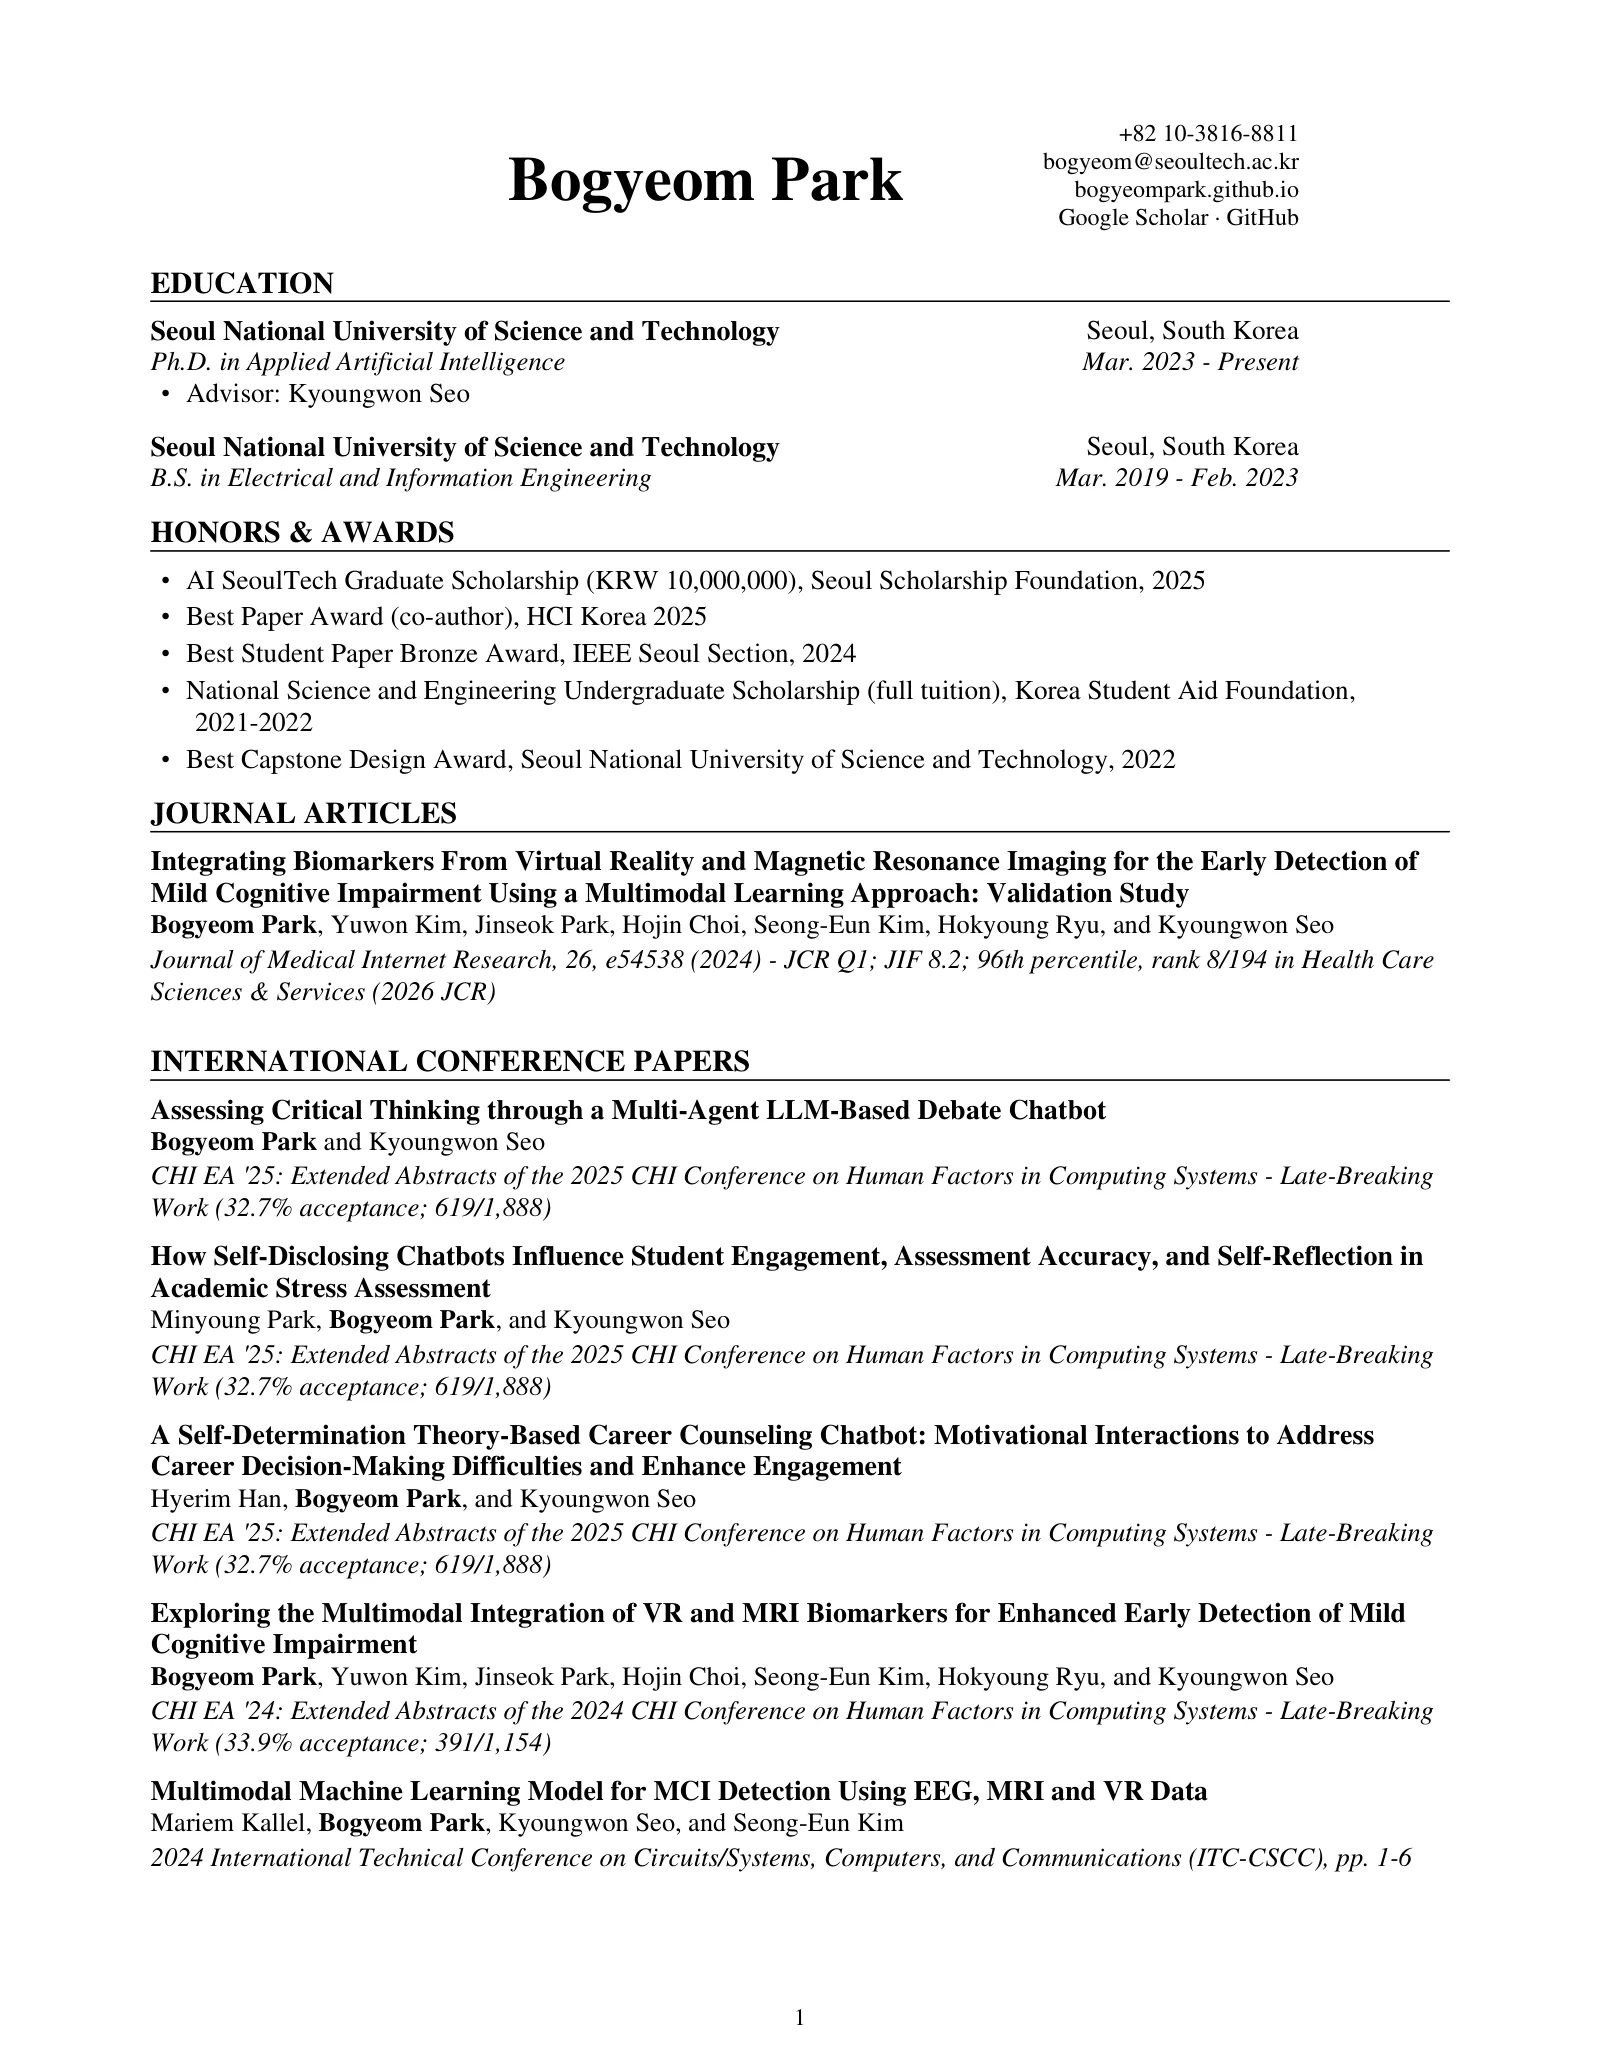
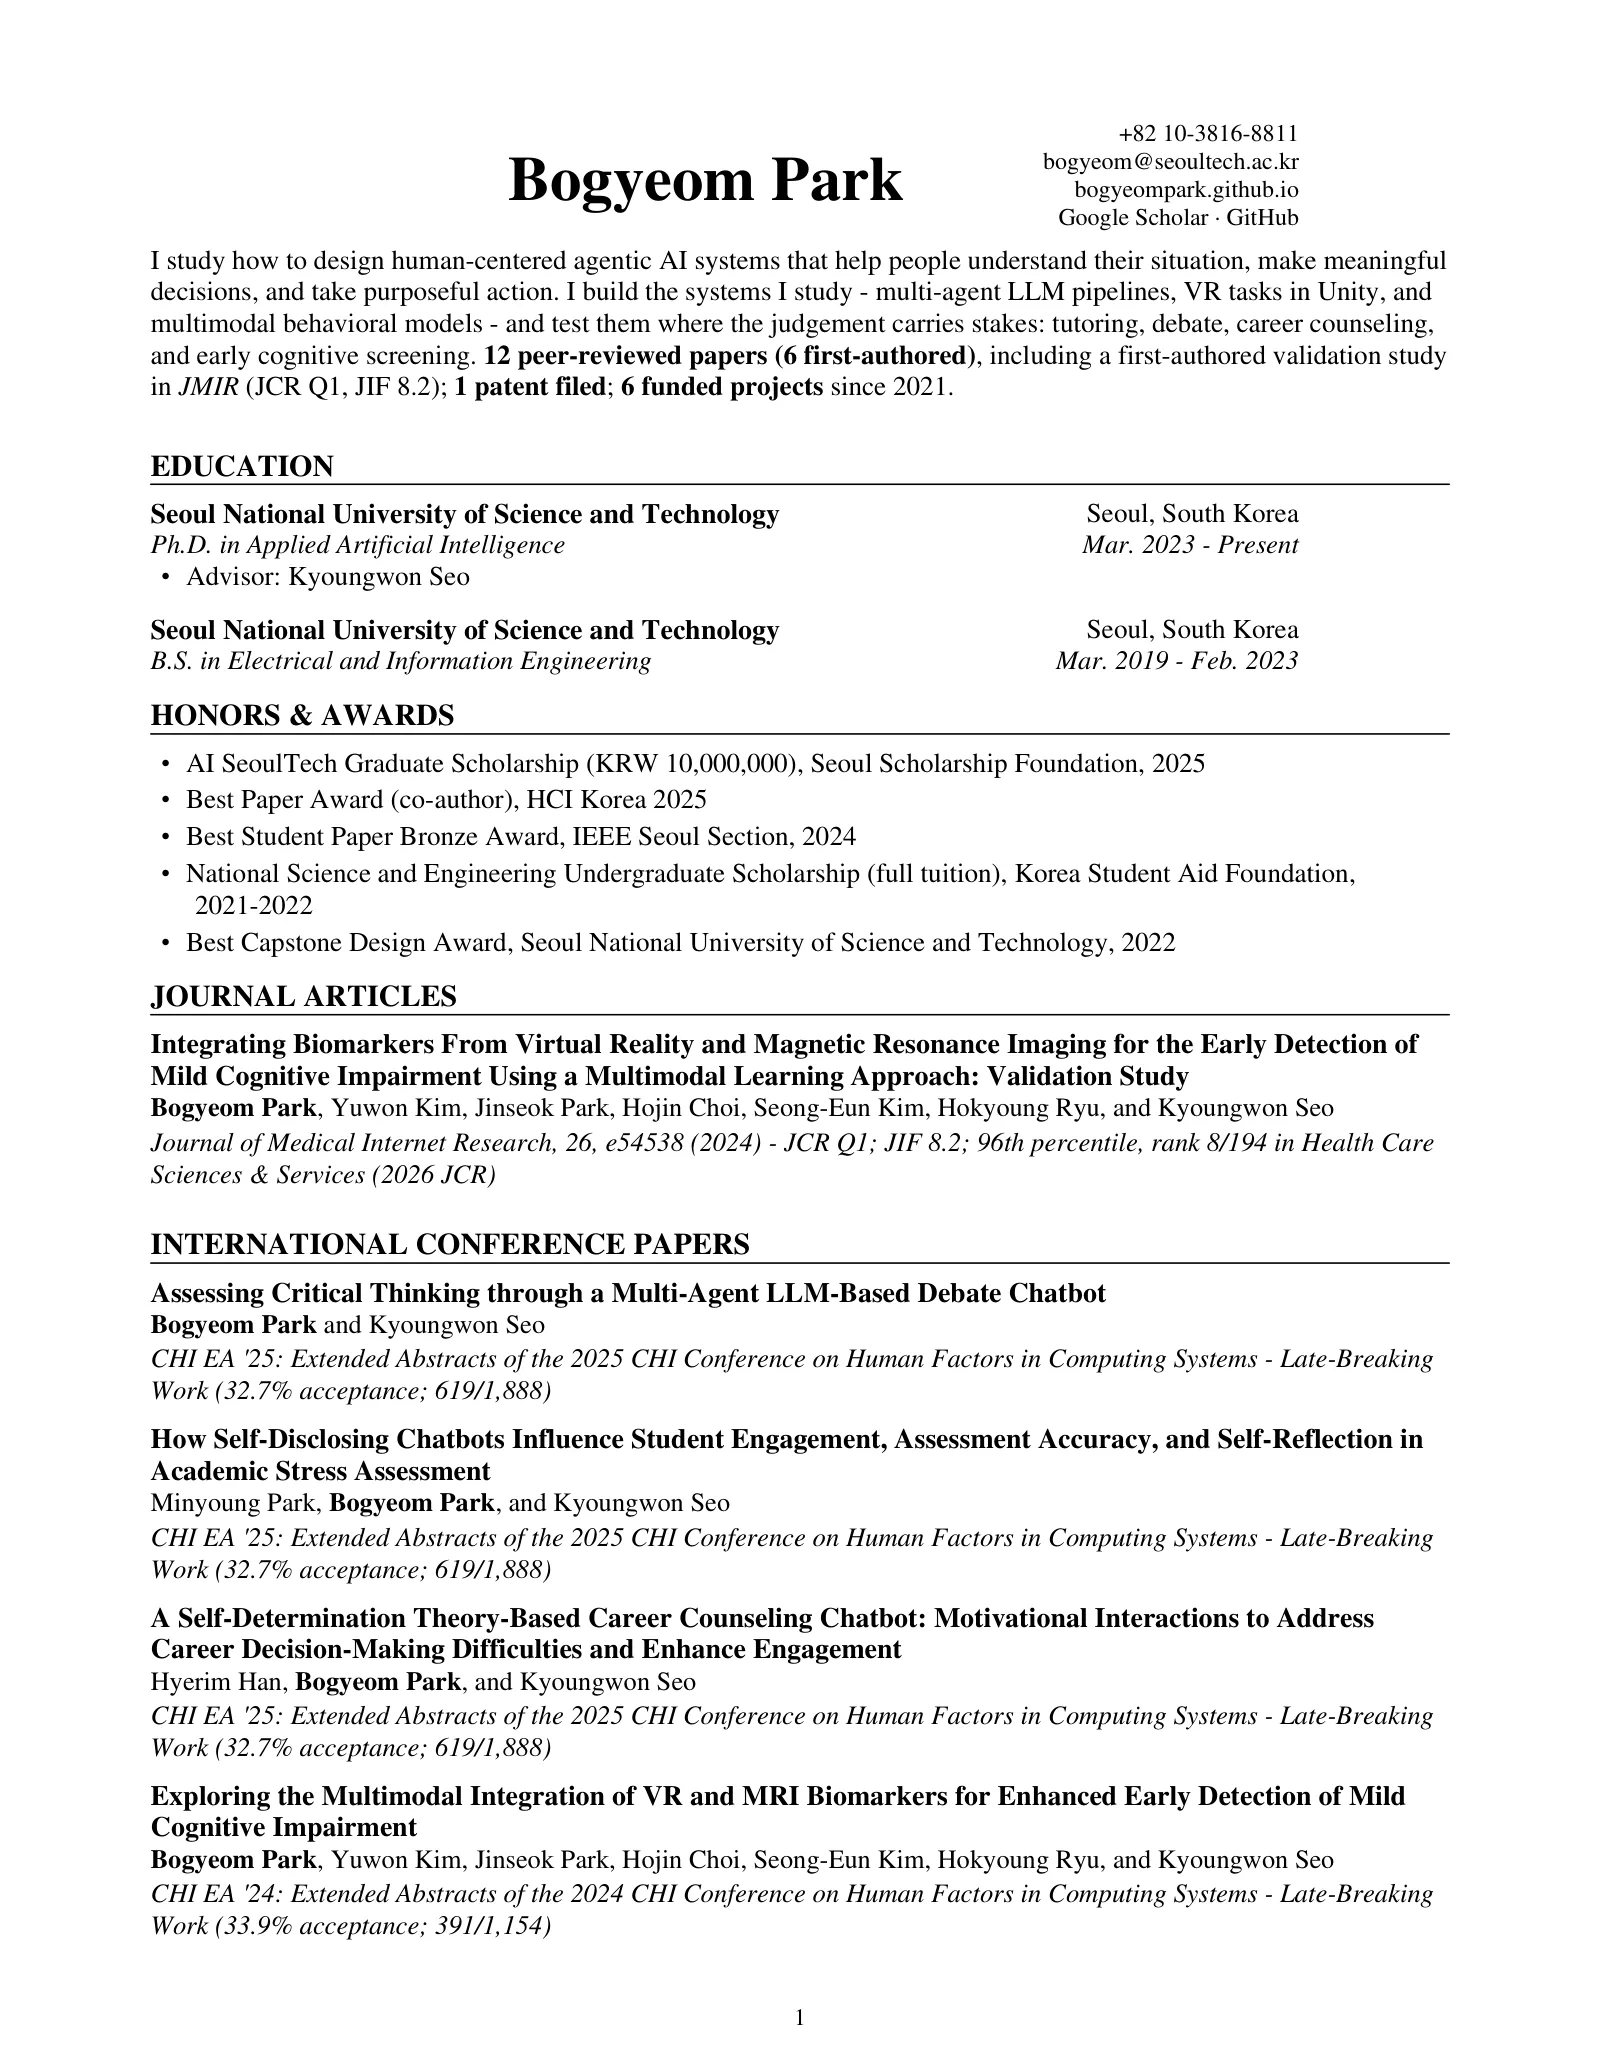
Make the CV say what the site says
The review asked for the CV and the homepage to carry the same words, and they
had drifted far apart.

The CV opens with a summary now: the identity sentence the homepage opens with,
the same keywords - multi-agent LLM pipelines, VR tasks in Unity, multimodal
behavioral models - and three counts a reader can check against the sections
underneath. Research Interests was dropped from this CV years ago for good
reason, and this is not that; every clause in it is verifiable from the page it
sits on.

Research Experience was missing the thing the whole section exists for. No
project carried its award. The tutoring project was titled for probability and
statistics when the contract and the tutor are about mathematics. The biomarker
laboratory was dated from 2022 when it ran from June 2021, and both ministry
grants were attributed to the National Research Foundation rather than the
Ministry of Science and ICT. The KERIS instructional-design project was absent
altogether. And four of the six had no outcome at all: no 94.4%, no 0.78, no RR
2025-3, no pilot, no patent.

All six now carry funder, award, dates and what came out, in the order and the
wording the site uses. The award is the project's rather than mine, so a note
under the affiliation says so once instead of a disclaimer repeating six times.

Skills gain the methods the site claims and the CV did not name: focus groups,
Delphi and expert validation, school and field pilots, clinical data collection
[…]

Changed region(s): [[0.0938, 0.1236, 0.9062, 0.958]]

diff --git a/scripts/cv_data.py b/scripts/cv_data.py
@@ -31,9 +31,21 @@ CONTACT = {
     "github": "https://github.com/BogyeomPark",
 }
 
-# Research Interests was dropped from the CV. The publication list and the project
-# bullets carry the same ground, and a standalone paragraph of interests is the one
-# part of a CV nobody can check.
+# Research Interests was dropped from the CV: a standalone paragraph of interests
+# is the one part of a CV nobody can check. This is not that. It is the sentence
+# the homepage opens with, the keywords that page carries, and three counts that
+# can each be verified from the sections below - which is what the review asked
+# for when it said the CV and the site should say the same thing.
+SUMMARY = (
+    "I study how to design human-centered agentic AI systems that help people understand "
+    "their situation, make meaningful decisions, and take purposeful action. I build the "
+    "systems I study - multi-agent LLM pipelines, VR tasks in Unity, and multimodal "
+    "behavioral models - and test them where the judgement carries stakes: tutoring, "
+    "debate, career counseling, and early cognitive screening. "
+    "<b>12 peer-reviewed papers (6 first-authored)</b>, including a first-authored "
+    "validation study in <i>JMIR</i> (JCR Q1, JIF 8.2); <b>1 patent filed</b>; "
+    "<b>6 funded projects</b> since 2021."
+)
 
 EDUCATION = [
     {
@@ -191,6 +203,10 @@ DOMESTIC = [
 # twice while forcing every grant that crosses Feb. 2023 into one side or the other.
 # The status change is two lines here; Education already dates the degrees.
 # Projects run in one reverse-chronological list underneath, by start date.
+# Every project carries its funder and the size of the award, because that is what
+# a reader is weighing and leaving it out makes the entry unreadable. The award is
+# the project’s, not mine - the note under the affiliation says so once, rather
+# than repeating a disclaimer six times.
 RESEARCH_EXPERIENCE = [
     {
         "org": "Human-centered Artificial Intelligence (HAI) Lab, SeoulTech",
@@ -199,72 +215,85 @@ RESEARCH_EXPERIENCE = [
             ("Graduate Researcher (Advisor: Kyoungwon Seo)", "Mar. 2023 - Present"),
             ("Undergraduate Researcher", "Mar. 2021 - Feb. 2023"),
         ],
+        "note": (
+            "Amounts are each project’s total award, held by my advisor as principal "
+            "investigator; the role given is the one I held on the research team."
+        ),
         "projects": [
             {
-                "title": "ICAP-Based AI Tutoring System for Probability and Statistics Learning",
-                "role": "Lead Graduate Researcher | Tutorus Labs",
+                "title": "Usability Evaluation of a Compound AI Tutoring System",
+                "role": "Lead Graduate Researcher | Tutorus Labs | KRW 30M",
                 "dates": "Mar. 2026 - Aug. 2026",
                 "bullets": [
-                    "Led the design and evaluation of an ICAP-based AI tutor that uses staged elicitation "
-                    "to promote active, constructive, and interactive engagement rather than answer delivery",
-                    "Developed an utterance-level coding and analytics workflow linking dialogue evidence "
-                    "with tutor correctness, usage patterns, and learning outcomes",
-                    "Built an interactive research dashboard for reviewing engagement labels and "
-                    "comparing AI-tutored learning processes",
+                    "Designed the evaluation framework and wrote the utterance-level ICAP coding "
+                    "manual, then built the classifier that applies it",
+                    "Ran the sessions with school and first-year university students, and built the "
+                    "analytics dashboard linking engagement to learning outcome",
+                    "Produced a coded dialogue corpus and the project’s final report; journal "
+                    "manuscript in preparation",
                 ],
             },
             {
-                "title": "Agentic AI for Personalized Career, Academic, and Counseling Support",
-                "role": "Lead Graduate Researcher | Korea Education & Research Information Service",
+                "title": "Agentic AI for Personalized Career, Admission, and Counseling Support",
+                "role": "Lead Graduate Researcher | Korea Education & Research Information Service | KRW 50M",
                 "dates": "Jun. 2025 - Dec. 2025",
                 "bullets": [
-                    "Led a study of how agentic AI could support personalized educational pathways, "
-                    "counseling, and decision-making",
+                    "Ran the teacher focus groups, designed the multi-agent workflow, and ran two "
+                    "rounds of expert validation and a Delphi study",
+                    "Piloted the system with 30 teachers and 150 students; experts rated the design "
+                    "direction 4.37/5 and automatic record ingestion 5.00/5",
+                    "Produced KERIS Research Report RR 2025-3, an invention disclosure, and a "
+                    "first-authored HCI Korea 2026 paper",
                 ],
             },
             {
-                "title": "AI Copilot Technologies for Adaptive, Teacher-Augmented Learning",
+                "title": "AI Copilot for Teacher-Augmented, Competence-Adaptive Learning",
                 "role": (
-                    "Lead Graduate Researcher | Institute for Information & Communications Technology "
-                    "Planning & Evaluation"
+                    "Lead Graduate Researcher | Institute for Information & Communications "
+                    "Technology Planning & Evaluation | KRW 1B"
                 ),
                 "dates": "Jul. 2023 - Dec. 2025",
-                # The debate chatbot was first-authored and built here; the SDT career
-                # chatbot was co-developed. The self-disclosure study is a co-authored
-                # paper rather than a system built here, so it stays in Publications.
                 "bullets": [
                     "Designed and evaluated a multi-agent LLM debate chatbot that draws out a "
-                    "student’s argument and assesses critical thinking from the exchange",
-                    "Co-developed a self-determination-theory career counseling chatbot that "
-                    "addresses career decision-making difficulties through motivational dialogue",
+                    "student’s argument and scores critical thinking from the exchange",
+                    "Its evaluator agents matched human raters at an intraclass correlation of 0.78, "
+                    "agreeing within one point 97.37% of the time (CHI EA 2025, first-authored)",
+                    "Co-developed a self-determination-theory career counseling chatbot",
+                ],
+            },
+            {
+                "title": "AI Agents for Improving Teachers’ Instructional Design",
+                "role": "Lead Graduate Researcher | Korea Education & Research Information Service",
+                "dates": "2025",
+                "bullets": [
+                    "Authored the final report, designed the system prompts, and drafted the interface",
+                    "Produced a practitioner guide to collaborative instructional-design agents",
                 ],
             },
             {
                 "title": "VR-EP-EEG-MRI Digital Biomarker Basic Research Laboratory",
-                "role": "Lead Graduate Researcher | National Research Foundation of Korea",
-                "dates": "Mar. 2022 - Feb. 2024",
+                "role": "Lead Graduate Researcher | Ministry of Science and ICT | KRW 1.2B",
+                "dates": "Jun. 2021 - Feb. 2024",
                 "bullets": [
-                    "Ran the VR data collection on site at Hanyang University Guri Hospital with patients "
-                    "with mild cognitive impairment and healthy controls",
-                    "Analyzed the resulting VEEM multimodal dataset - VR interaction, eye tracking, evoked "
-                    "potentials, EEG and MRI - including the VR-MRI-SNSB cohort of 54 participants",
+                    "Ran the VR data collection on site at Hanyang University Guri Hospital, with "
+                    "patients rather than a convenience sample",
+                    "Analyzed the VEEM multimodal dataset - hand movement, gaze, evoked potentials, "
+                    "EEG and MRI - including the VR-MRI-SNSB cohort of 54 participants",
+                    "The dataset behind four of my papers; a filed patent was submitted as a project "
+                    "deliverable",
                 ],
             },
             {
-                "title": (
-                    "Multimodal Deep Learning for Early Dementia Diagnosis from VR "
-                    "Daily-Living Data"
-                ),
-                "role": "Lead Graduate Researcher | National Research Foundation of Korea",
+                "title": "Digital Biomarkers for Early Dementia Diagnosis from VR Daily-Living Data",
+                "role": "Lead Graduate Researcher | Ministry of Science and ICT | KRW 550M",
                 "dates": "Mar. 2021 - Feb. 2024",
-                # First-authored the JMIR validation study this grant produced.
                 "bullets": [
-                    "Developed the virtual kiosk task in Unity - the six-step daily-living scenario the "
-                    "study's VR biomarkers are derived from",
-                    "Led the development and validation of a multimodal model combining VR behavioral "
-                    "biomarkers with MRI for early detection of mild cognitive impairment",
-                    "Derived hand-movement and gaze features from the kiosk task and tested them "
-                    "against MRI-derived measures in a clinical sample",
+                    "Built the virtual kiosk task in Unity - the six-step daily-living scenario the "
+                    "study’s VR biomarkers are derived from",
+                    "Led the multimodal model, deriving hand-movement and gaze features and reading "
+                    "them together with MRI-derived measures",
+                    "Separated 22 healthy controls from 32 patients at 94.4% accuracy, higher than VR "
+                    "or MRI alone (JMIR 2024, first-authored)",
                 ],
             },
         ],
@@ -296,10 +325,13 @@ TEACHING = [
     },
 ]
 
+# Worded to match the capabilities the site's project entries claim, so a reader
+# who has seen one recognises the other.
 SKILLS = [
-    "<b>Research Methods</b> - experimental design, usability evaluation, user research, prototyping, "
-    "multimodal learning analytics, statistical analysis, qualitative coding",
-    "<b>Machine Learning</b> - PyTorch, scikit-learn, Hugging Face, feature engineering, multimodal fusion",
+    "<b>Research Methods</b> - experimental design, usability evaluation, focus group interviews, "
+    "Delphi and expert validation, school and field pilots, clinical data collection with patients, "
+    "utterance-level dialogue coding, inter-rater agreement, statistical analysis",
+    "<b>Machine Learning</b> - PyTorch, scikit-learn, Hugging Face, feature engineering, multimodal fusion, transfer learning, classifier development",
     "<b>LLM Systems</b> - OpenAI and Anthropic APIs, multi-agent pipelines, RAG, prompt engineering and evaluation, LLM-as-a-judge",
     "<b>Programming and Tooling</b> - Python, C/C#, Docker, Streamlit, Git, SPSS",
     "<b>VR and Interactive Systems</b> - Unity, VR task development, interaction logging and eye tracking",

diff --git a/scripts/build_cv.py b/scripts/build_cv.py
@@ -256,6 +256,10 @@ def build():
     )
     story = [header, Spacer(1, 5)]
 
+    # The identity sentence and the counts, in the same words the homepage uses.
+    # The review asked for the two to match; this is the half that was missing.
+    story += [Paragraph(cv_data.SUMMARY, styles["Body"]), Spacer(1, 7)]
+
     story += section(cv_data.SECTION_TITLES["education"])
     for index, school in enumerate(cv_data.EDUCATION):
         if index:
@@ -284,6 +288,8 @@ def build():
         # One line per student status, under a single org heading.
         for role, dates in affiliation["roles"]:
             story.append(two_col(role, dates, right_style="CVItalicRight"))
+        if affiliation.get("note"):
+            story.append(Paragraph(affiliation["note"], styles["Small"]))
         for proj in affiliation["projects"]:
             story += project(proj["title"], proj["role"], proj["dates"], proj["bullets"])
 
